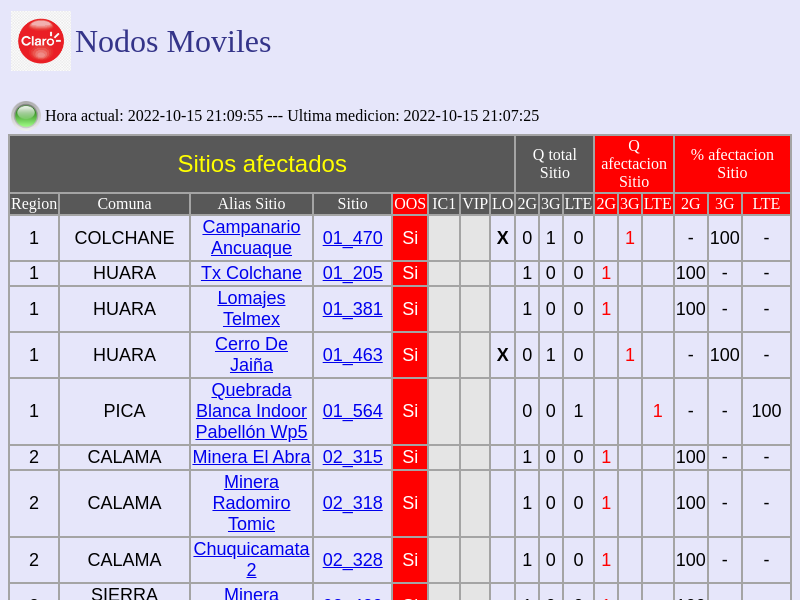
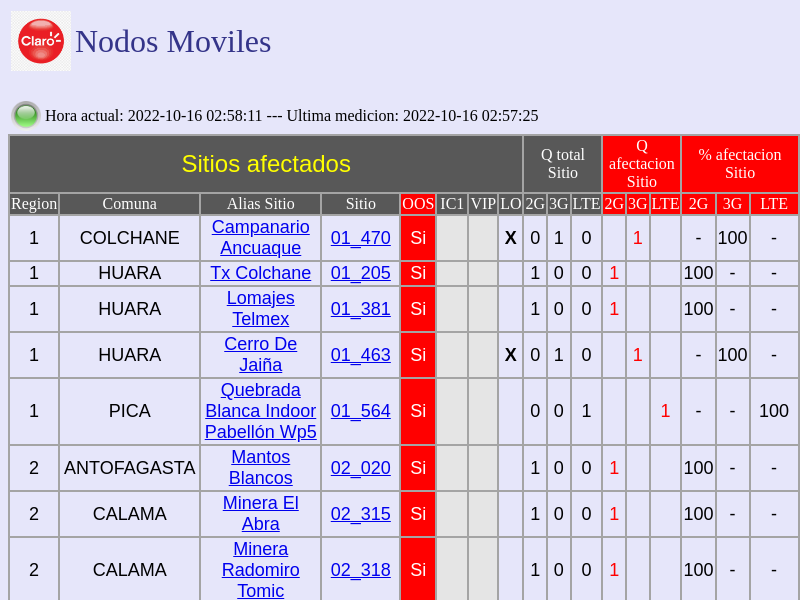
filtrado de datos

diff --git a/data.js b/data.js
@@ -78,37 +78,29 @@ const sitesCanceled = function () {
     let sitesCancel = keysitesOOS.filter(function (el) {
         return !newOOSSites.includes(el);   
     });
+    
     console.log('listando sitios cancelados');
     console.log(sitesCancel);
 
-    
+    let siteCancelOOS = [];
 
     for (let i= 0 ; i < sitesCancel.length; i++) {
         let site = sitesCancel[i];
         let sitesOOS = JSON.parse(localStorage.getItem('siteOOS'));
+        let siteOOS = [sitesOOS[site][3],sitesOOS[site][2]];
+        console.log(siteOOS);
         delete sitesOOS[site];
+        let msg = util.inspect(siteOOS, { showHidden: false, depth: null, compact: false });
+        siteCancelOOS.push(msg);
         localStorage.setItem('siteOOS', JSON.stringify(sitesOOS));
        
     }
+    console.log('sitesCancelOOS', siteCancelOOS);
     console.log('sitios en localstorage');
     console.log(Object.keys(JSON.parse(localStorage.getItem('siteOOS'))));
     newOOSSites = [];
-    return sitesCancel;
-
-
-    /* for (let i = 0; i < keysitesOOS.length; i++) {
-        if (!newOssSites.includes(keysitesOOS[i])) {
-            console.log(keysitesOOS[i]);
-
-
-
-            let sitesOOS = JSON.parse(localStorage.getItem('siteOOS'));
-            delete sitesOOS[keysitesOOS[i]];
-            localStorage.setItem('siteOOS', JSON.stringify(site));
-        }
-    }
-     */
-
+ 
+    return siteCancelOOS;
     
 
 }

diff --git a/server.js b/server.js
@@ -27,7 +27,7 @@ const monitorStart = async function (ctx) {
     let time = new Date().toLocaleString();
 
     console.log('Monitor Start' + time);
-    await sendMessage( 'Monitor Start' + time, ctx);
+    //await sendMessage( 'Monitor Start' + time, ctx);
     await reload(ctx);
     console.log('reload');
     await timer(60 * 1000 * 5);

diff --git a/telegraf.js b/telegraf.js
@@ -15,11 +15,9 @@ let sendArr = async function(arr,ctx) {
 
         for (let i = 0; i < arr.length; i ++) {
             await bot.telegram.sendMessage(ctx.chat.id ,arr[i])
-            await timer(3000);
+            await timer(1500);
 
-        }
-        
-                
+        }       
         
     } 
     catch(e) 
